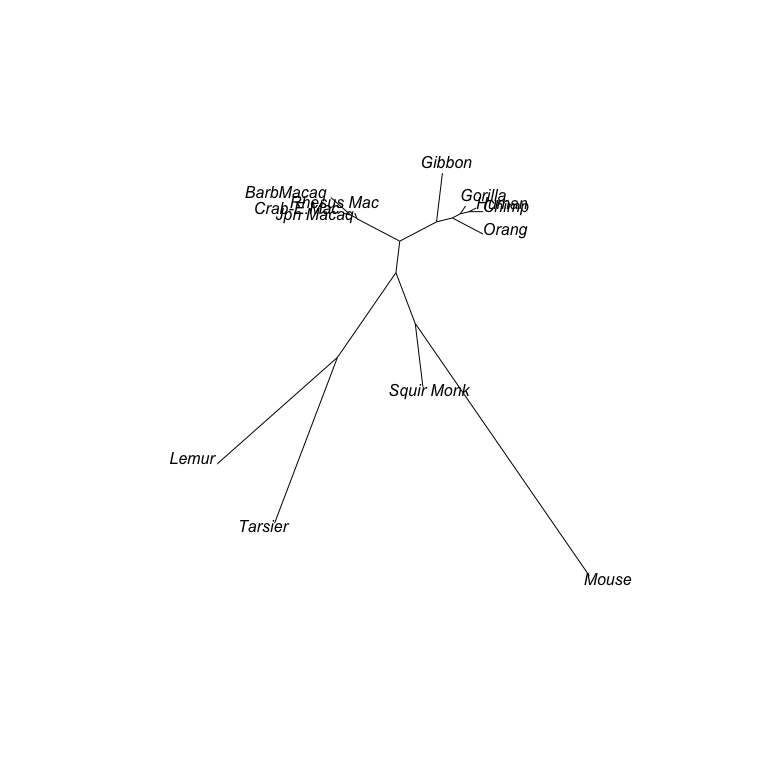
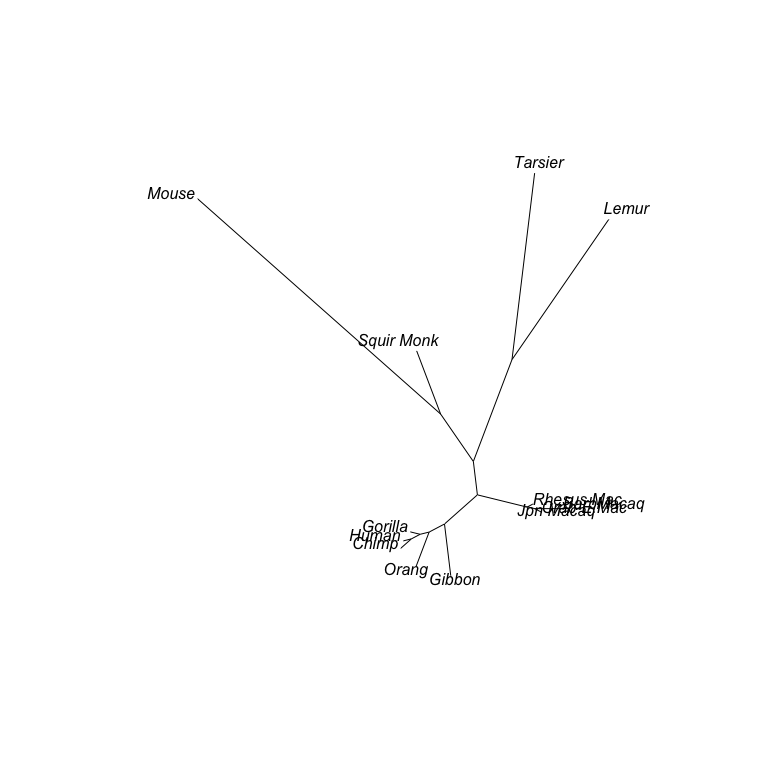
update context

diff --git a/Lab1.md b/Lab1.md
@@ -168,14 +168,14 @@ The result is:
     ## unconstrained loglikelihood: -1230.335 
     ## Discrete gamma model
     ## Number of rate categories: 4 
-    ## Shape parameter: 5.98548 
+    ## Shape parameter: 5.985961 
     ## 
     ## Rate matrix:
     ##          a        c        g        t
-    ## a  0.00000  1.00000 27.00745  1.00000
-    ## c  1.00000  0.00000  1.00000 27.00745
-    ## g 27.00745  1.00000  0.00000  1.00000
-    ## t  1.00000 27.00745  1.00000  0.00000
+    ## a  0.00000  1.00000 27.00659  1.00000
+    ## c  1.00000  0.00000  1.00000 27.00659
+    ## g 27.00659  1.00000  0.00000  1.00000
+    ## t  1.00000 27.00659  1.00000  0.00000
     ## 
     ## Base frequencies:  
     ## 0.4013194 0.3738494 0.04584645 0.1789847
@@ -183,7 +183,7 @@ The result is:
 Tips: you can use the command `str(fitHKY)` to list all available items
 inside “fitHKY”.
 
-As you can see, the tree from this result is unrooted.
+As you can see, the result is an unrooted phylogenetic tree.
 
     is.rooted(fitHKY$tree) 
 
@@ -193,12 +193,12 @@ As you can see, the tree from this result is unrooted.
 
 ![](Lab1_files/figure-markdown_strict/unnamed-chunk-17-1.png)
 
-So we will use the function `root` to assign the root to the tree given
-the outgroup taxon “Mouse”.
+If you want to root the tree, one simple method is to use the function
+`root` and specify the outgroup taxon “Mouse”.
 
     rt <- root(fitHKY$tree, outgroup = "Mouse", resolve.root = TRUE)
 
-Finally, the maximum likelihood tree looks like:
+The rooted maximum likelihood tree looks like:
 
     plot(rt, use.edge.length=T, no.margin=TRUE)
 
